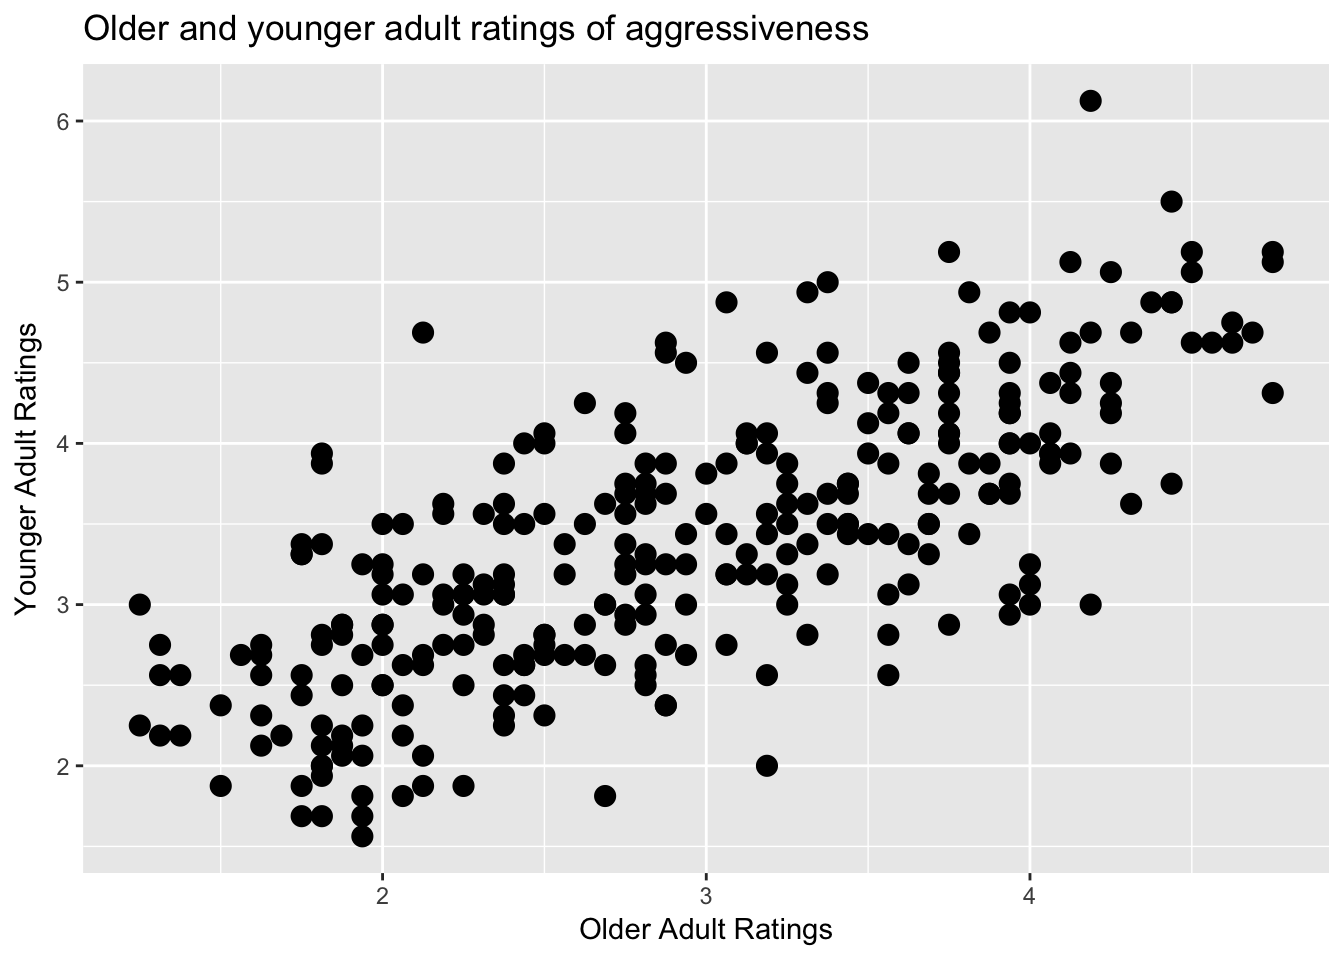
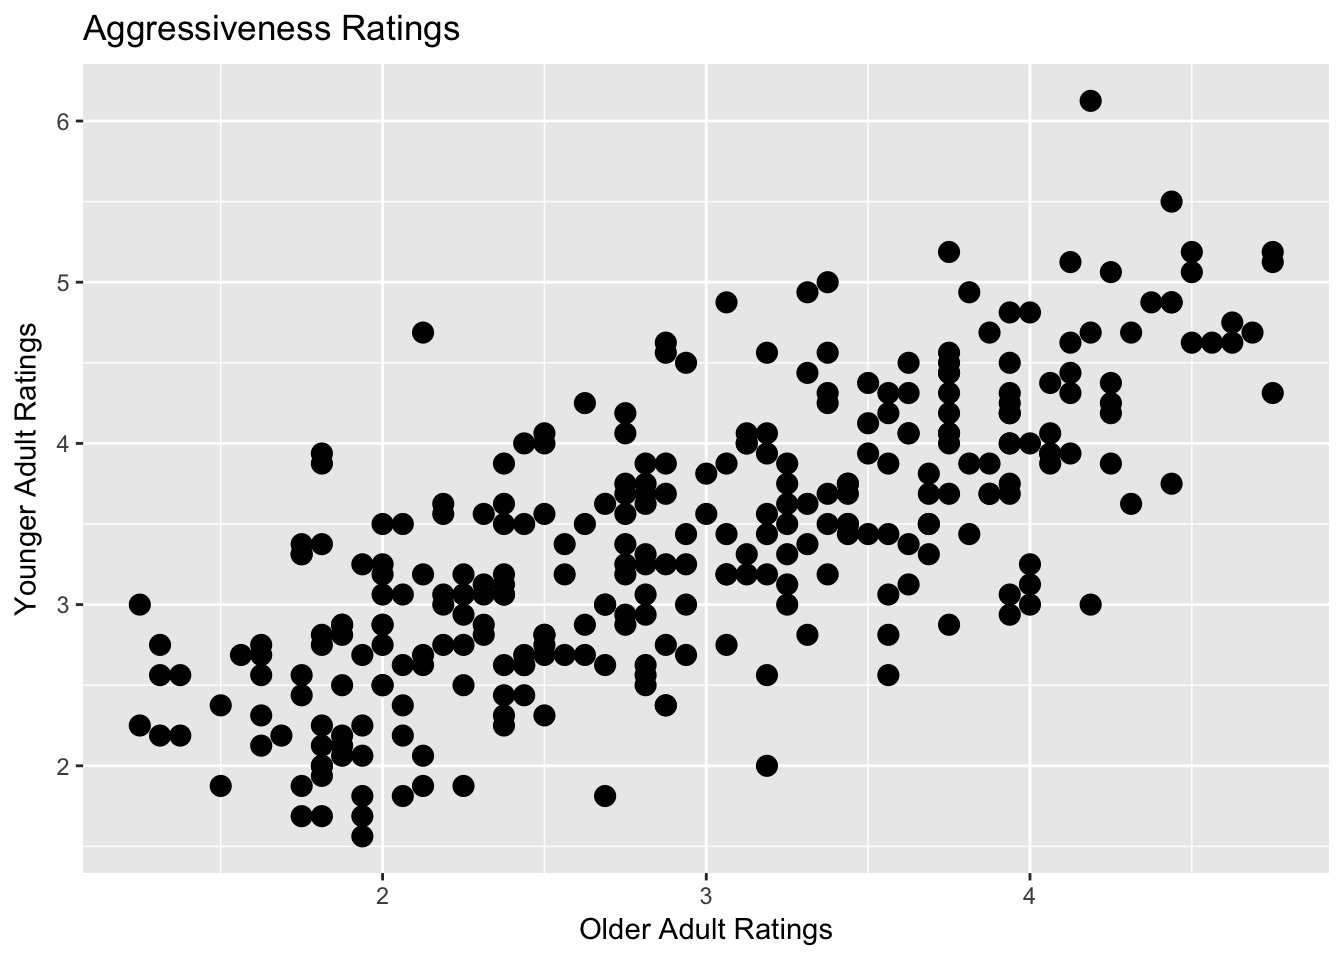
Update of stats 2 workbook

Changed region(s): [[0.0625, 0.0, 0.6562, 0.0625]]

diff --git a/stats2workbook/interactive-assignment-4-graphs-with-ggplot.html b/stats2workbook/interactive-assignment-4-graphs-with-ggplot.html
@@ -26,7 +26,7 @@
 <meta name="author" content="Robert G. Franklin Jr.">
 
 
-<meta name="date" content="2017-08-30">
+<meta name="date" content="2017-09-05">
 
   <meta name="viewport" content="width=device-width, initial-scale=1">
   <meta name="apple-mobile-web-app-capable" content="yes">
@@ -177,9 +177,8 @@ code > span.in { color: #60a0b0; font-weight: bold; font-style: italic; } /* Inf
 <li>Know how to add functions to plots to change the labels on the plots</li>
 </ol>
 <p>This assignment will discuss some of the basics about creating a plot with ggplot. GGplot is very powerful but it can be very complicated. Before doing this assignment, you should read through <a href="http://r4ds.had.co.nz/data-visualisation.html">Chapter 3 of R for Data Science</a>.</p>
-<p>The first thing we have to do is to install the ggplot package and to load it. So type the following into R:</p>
-<div class="sourceCode"><pre class="sourceCode r"><code class="sourceCode r"><span class="kw">install.packages</span>(ggplot2)
-<span class="kw">library</span>(ggplot2)</code></pre></div>
+<p>The first thing we have to do is to install the ggplot package and to load it. The ggplot package is part of the tidyverse, so we can load it by using the same command as in Interactive Assignment 3.</p>
+<div class="sourceCode"><pre class="sourceCode r"><code class="sourceCode r"><span class="kw">library</span>(<span class="st">&quot;tidyverse&quot;</span>)</code></pre></div>
 <p>The data for these assignments are available as a download on Canvas as the file IA4graph.csv (Files are also available at github )</p>
 <p>These data are a series of face ratings and were used in several studies looking at how older adult (older than 65 years) and younger adult (18-30) raters perceive older and younger adult faces. The raters rated the faces on 6 characteristics: aggressiveness, attractiveness, babyfaceness, competence, health, and untrustworthiness. The ratings were on a 7 point scale with 1 indicating very low and 7 indicating very high.</p>
 <p>Each row represnts a different face. The variables (columns) are as follows:</p>
@@ -374,12 +373,12 @@ code > span.in { color: #60a0b0; font-weight: bold; font-style: italic; } /* Inf
 <p>In ggplot, we can also edit the other elements of a plot which are on the outside using different options. We can use the <code>labs()</code> option to set the labels of the plot and change the ones that ggplot gives us by default. For instance, we may want to change the labels of the plot above</p>
 <div class="sourceCode"><pre class="sourceCode r"><code class="sourceCode r"><span class="kw">ggplot</span>(<span class="dt">data =</span> face) <span class="op">+</span><span class="st"> </span>
 <span class="st">  </span><span class="kw">geom_point</span>(<span class="kw">aes</span>(<span class="dt">x =</span> ag.old, <span class="dt">y =</span> ag.young), <span class="dt">size =</span> <span class="dv">5</span>, <span class="dt">shape =</span> <span class="dv">20</span>) <span class="op">+</span>
-<span class="st">  </span><span class="kw">labs</span>(<span class="dt">title=</span><span class="st">&#39;Older and younger adult ratings of aggressiveness&#39;</span>, <span class="dt">x =</span> <span class="st">&quot;Older Adult Ratings&quot;</span>, <span class="dt">y =</span> <span class="st">&quot;Younger Adult Ratings&quot;</span>)</code></pre></div>
+<span class="st">  </span><span class="kw">labs</span>(<span class="dt">title=</span><span class="st">&#39;Aggressiveness Ratings&#39;</span>, <span class="dt">x =</span> <span class="st">&quot;Older Adult Ratings&quot;</span>, <span class="dt">y =</span> <span class="st">&quot;Younger Adult Ratings&quot;</span>)</code></pre></div>
 <p><img src="05-InteractiveAssignment4_ggplot_files/figure-html/unnamed-chunk-10-1.png" width="672" /></p>
 <p>Finally, we can use the <code>theme()</code> function to change a lot of other options in our plot. In this example below, I’ll change the size and the type of the text:</p>
 <div class="sourceCode"><pre class="sourceCode r"><code class="sourceCode r"><span class="kw">ggplot</span>(<span class="dt">data =</span> face) <span class="op">+</span><span class="st"> </span>
 <span class="st">  </span><span class="kw">geom_point</span>(<span class="kw">aes</span>(<span class="dt">x =</span> ag.old, <span class="dt">y =</span> ag.young), <span class="dt">size =</span> <span class="dv">3</span>, <span class="dt">shape =</span> <span class="dv">20</span>) <span class="op">+</span>
-<span class="st">  </span><span class="kw">labs</span>(<span class="dt">title=</span><span class="st">&#39;Older and younger adult ratings of aggressiveness&#39;</span>, <span class="dt">x =</span> <span class="st">&quot;Older Adult Ratings&quot;</span>, <span class="dt">y =</span> <span class="st">&quot;Younger Adult Ratings&quot;</span>) <span class="op">+</span>
+<span class="st">  </span><span class="kw">labs</span>(<span class="dt">title=</span><span class="st">&#39;Aggressiveness Ratings&#39;</span>, <span class="dt">x =</span> <span class="st">&quot;Older Adult Ratings&quot;</span>, <span class="dt">y =</span> <span class="st">&quot;Younger Adult Ratings&quot;</span>) <span class="op">+</span>
 <span class="st">  </span><span class="kw">theme</span>(<span class="dt">text=</span><span class="kw">element_text</span>(<span class="dt">size=</span><span class="dv">16</span>, <span class="dt">family=</span><span class="st">&quot;Arial&quot;</span>))</code></pre></div>
 <p><img src="05-InteractiveAssignment4_ggplot_files/figure-html/unnamed-chunk-11-1.png" width="672" /></p>
 <p>As you can see in the examples, you can keep adding options to the plot to change different elements to make the plot look nicer. There are options to change each of the elements, such as changing the size of the x axis font, the y axis font, the x label font, the y label font, etc.</p>

diff --git a/stats2workbook/interactive-assignment-3-the-tidyverse.html b/stats2workbook/interactive-assignment-3-the-tidyverse.html
@@ -26,7 +26,7 @@
 <meta name="author" content="Robert G. Franklin Jr.">
 
 
-<meta name="date" content="2017-08-30">
+<meta name="date" content="2017-09-05">
 
   <meta name="viewport" content="width=device-width, initial-scale=1">
   <meta name="apple-mobile-web-app-capable" content="yes">
@@ -179,7 +179,7 @@ code > span.in { color: #60a0b0; font-weight: bold; font-style: italic; } /* Inf
 <p>To start with the tidyverse, you need to install the package ‘tidyverse’, which is a collection of useful packages used to analyze data. Do the following to install it:</p>
 <div class="sourceCode"><pre class="sourceCode r"><code class="sourceCode r"><span class="kw">install.packages</span>(<span class="st">&#39;tidyverse&#39;</span>)</code></pre></div>
 <p>Then load the tidyverse package with the following:</p>
-<div class="sourceCode"><pre class="sourceCode r"><code class="sourceCode r"><span class="kw">library</span>(tidyverse)</code></pre></div>
+<div class="sourceCode"><pre class="sourceCode r"><code class="sourceCode r"><span class="kw">library</span>(<span class="st">&#39;tidyverse&#39;</span>)</code></pre></div>
 <p>For this assignment, you are going to work through Chapter 5.1-5.5 of R for Data Science. It is available at this link: <a href="http://r4ds.had.co.nz/transform.html" class="uri">http://r4ds.had.co.nz/transform.html</a></p>
 <p>Read the chapter at the attached link and then answer the questions that are below when you get to them. Place your answers on this sheet by writing down the code or commands you would do in order to solve these problems.</p>
 <p>If you’re ambitious, you can work through sections 5.6 and 5.7 on your own.</p>
@@ -193,10 +193,6 @@ code > span.in { color: #60a0b0; font-weight: bold; font-style: italic; } /* Inf
 <li>Departed in summer (July, August, and September)</li>
 <li>Arrived more than two hours late, but didn’t leave late</li>
 </ul>
-<p> </p>
-<p> </p>
-<p> </p>
-<p> </p>
 <p> </p>
 <p> </p>
 <p> </p>
@@ -234,7 +230,7 @@ code > span.in { color: #60a0b0; font-weight: bold; font-style: italic; } /* Inf
 <p> </p>
 <p> </p>
 <p> </p>
-<p>Section 2: arrange</p>
+<p><em>Section 2: arrange</em></p>
 <ol start="4" style="list-style-type: decimal">
 <li>How could you use <code>arrange()</code> to sort all missing values to the start? (Hint: use <code>is.na()</code>).</li>
 </ol>
@@ -255,7 +251,7 @@ code > span.in { color: #60a0b0; font-weight: bold; font-style: italic; } /* Inf
 <p> </p>
 <p> </p>
 <p> </p>
-<p>Section 3: select</p>
+<p><em>Section 3: select</em></p>
 <ol start="6" style="list-style-type: decimal">
 <li>Brainstorm as many ways as possible to select dep_time, dep_delay, arr_time, and arr_delay from flights.</li>
 </ol>
@@ -287,7 +283,7 @@ code > span.in { color: #60a0b0; font-weight: bold; font-style: italic; } /* Inf
 <p> </p>
 <p> </p>
 <p> </p>
-<p>Section 4: Mutate</p>
+<p><em>Section 4: Mutate</em></p>
 <ol start="9" style="list-style-type: decimal">
 <li>Currently dep_time and sched_dep_time are convenient to look at, but hard to compute with because they’re not really continuous numbers. Convert them to a more convenient representation of number of minutes since midnight.</li>
 </ol>

diff --git a/stats2workbook/free-assignment-1-reviewing-r.html b/stats2workbook/free-assignment-1-reviewing-r.html
@@ -26,7 +26,7 @@
 <meta name="author" content="Robert G. Franklin Jr.">
 
 
-<meta name="date" content="2017-08-30">
+<meta name="date" content="2017-09-05">
 
   <meta name="viewport" content="width=device-width, initial-scale=1">
   <meta name="apple-mobile-web-app-capable" content="yes">
@@ -220,20 +220,10 @@ code > span.in { color: #60a0b0; font-weight: bold; font-style: italic; } /* Inf
 <p> </p>
 <p> </p>
 <p> </p>
-<ol style="list-style-type: decimal">
-<li>Mean and standard deviation for all variables (except Subject and Sex)  </li>
-</ol>
-<p> </p>
-<p> </p>
-<p> </p>
-<p> </p>
-<p> </p>
-<p> </p>
-<p> </p>
 <ol start="3" style="list-style-type: decimal">
-<li><p>Using a t-test, see whether there are any differences between males and females in their scores in the novelACC, seenACC, and overallACC variable. Report the t-values using APA formatting below:</p></li>
-<li><p>Mean and standard deviation for all variables (except Subject and Sex)  </p></li>
+<li>Using a t-test, see whether there are any differences between males and females in their scores in the novelACC, seenACC, and overallACC variable. Report the t-values using APA formatting below:</li>
 </ol>
+<p> </p>
 <p> </p>
 <p> </p>
 <p> </p>
@@ -267,15 +257,9 @@ code > span.in { color: #60a0b0; font-weight: bold; font-style: italic; } /* Inf
 <p> </p>
 <p> </p>
 <p> </p>
-<p> </p>
-<p> </p>
-<p> </p>
 <ol start="6" style="list-style-type: decimal">
 <li>When looking at all the results, do these results support the theory that memory is stronger for faces presented with complex adjectives than for faces presented with basic mental state adjectives? Why or why not? You should use your answers to the questions above in order to answer these questions.</li>
 </ol>
-<p> </p>
-<p> </p>
-<p> </p>
 <p> </p>
 <p> </p>
 <p> </p>

diff --git a/stats2workbook/index.html b/stats2workbook/index.html
@@ -26,7 +26,7 @@
 <meta name="author" content="Robert G. Franklin Jr.">
 
 
-<meta name="date" content="2017-08-30">
+<meta name="date" content="2017-09-05">
 
   <meta name="viewport" content="width=device-width, initial-scale=1">
   <meta name="apple-mobile-web-app-capable" content="yes">
@@ -170,7 +170,7 @@ code > span.in { color: #60a0b0; font-weight: bold; font-style: italic; } /* Inf
 <div id="header">
 <h1 class="title">Workbook for Statistics 2</h1>
 <h4 class="author"><em>Robert G. Franklin Jr.</em></h4>
-<h4 class="date"><em>2017-08-30</em></h4>
+<h4 class="date"><em>2017-09-05</em></h4>
 </div>
 <div id="preface" class="section level1 unnumbered">
 <h1>Preface</h1>

diff --git a/stats2workbook/free-assignment-2-using-the-tidyverse-and-graphs-with-ggplot.html b/stats2workbook/free-assignment-2-using-the-tidyverse-and-graphs-with-ggplot.html
@@ -26,7 +26,7 @@
 <meta name="author" content="Robert G. Franklin Jr.">
 
 
-<meta name="date" content="2017-08-30">
+<meta name="date" content="2017-09-05">
 
   <meta name="viewport" content="width=device-width, initial-scale=1">
   <meta name="apple-mobile-web-app-capable" content="yes">

diff --git a/stats2workbook/free-assignment-4-regression-and-multiple-regression-in-r.html b/stats2workbook/free-assignment-4-regression-and-multiple-regression-in-r.html
@@ -26,7 +26,7 @@
 <meta name="author" content="Robert G. Franklin Jr.">
 
 
-<meta name="date" content="2017-08-30">
+<meta name="date" content="2017-09-05">
 
   <meta name="viewport" content="width=device-width, initial-scale=1">
   <meta name="apple-mobile-web-app-capable" content="yes">

diff --git a/stats2workbook/free-assignment-5-regression-and-sports.html b/stats2workbook/free-assignment-5-regression-and-sports.html
@@ -26,7 +26,7 @@
 <meta name="author" content="Robert G. Franklin Jr.">
 
 
-<meta name="date" content="2017-08-30">
+<meta name="date" content="2017-09-05">
 
   <meta name="viewport" content="width=device-width, initial-scale=1">
   <meta name="apple-mobile-web-app-capable" content="yes">

diff --git a/stats2workbook/free-assignment-6-moderation-with-r.html b/stats2workbook/free-assignment-6-moderation-with-r.html
@@ -26,7 +26,7 @@
 <meta name="author" content="Robert G. Franklin Jr.">
 
 
-<meta name="date" content="2017-08-30">
+<meta name="date" content="2017-09-05">
 
   <meta name="viewport" content="width=device-width, initial-scale=1">
   <meta name="apple-mobile-web-app-capable" content="yes">

diff --git a/stats2workbook/free-assignment-7-between-subject-anova.html b/stats2workbook/free-assignment-7-between-subject-anova.html
@@ -26,7 +26,7 @@
 <meta name="author" content="Robert G. Franklin Jr.">
 
 
-<meta name="date" content="2017-08-30">
+<meta name="date" content="2017-09-05">
 
   <meta name="viewport" content="width=device-width, initial-scale=1">
   <meta name="apple-mobile-web-app-capable" content="yes">

diff --git a/stats2workbook/free-assignment-8-within-subject-anova.html b/stats2workbook/free-assignment-8-within-subject-anova.html
@@ -26,7 +26,7 @@
 <meta name="author" content="Robert G. Franklin Jr.">
 
 
-<meta name="date" content="2017-08-30">
+<meta name="date" content="2017-09-05">
 
   <meta name="viewport" content="width=device-width, initial-scale=1">
   <meta name="apple-mobile-web-app-capable" content="yes">

diff --git a/stats2workbook/interactive-assignment-1-introduction-to-r.html b/stats2workbook/interactive-assignment-1-introduction-to-r.html
@@ -26,7 +26,7 @@
 <meta name="author" content="Robert G. Franklin Jr.">
 
 
-<meta name="date" content="2017-08-30">
+<meta name="date" content="2017-09-05">
 
   <meta name="viewport" content="width=device-width, initial-scale=1">
   <meta name="apple-mobile-web-app-capable" content="yes">

diff --git a/stats2workbook/interactive-assignment-2-reviewing-inferential-statistics.html b/stats2workbook/interactive-assignment-2-reviewing-inferential-statistics.html
@@ -26,7 +26,7 @@
 <meta name="author" content="Robert G. Franklin Jr.">
 
 
-<meta name="date" content="2017-08-30">
+<meta name="date" content="2017-09-05">
 
   <meta name="viewport" content="width=device-width, initial-scale=1">
   <meta name="apple-mobile-web-app-capable" content="yes">
